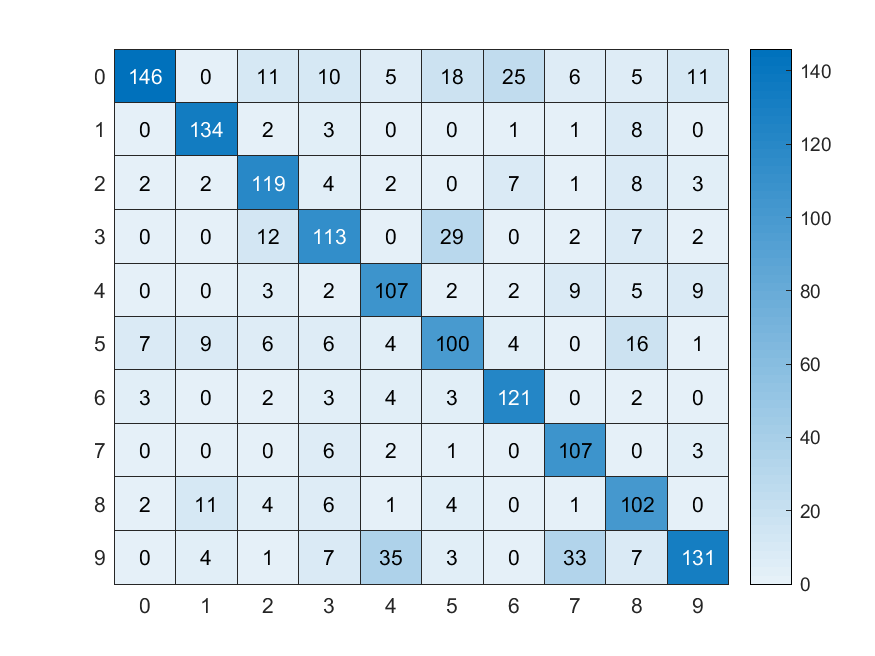
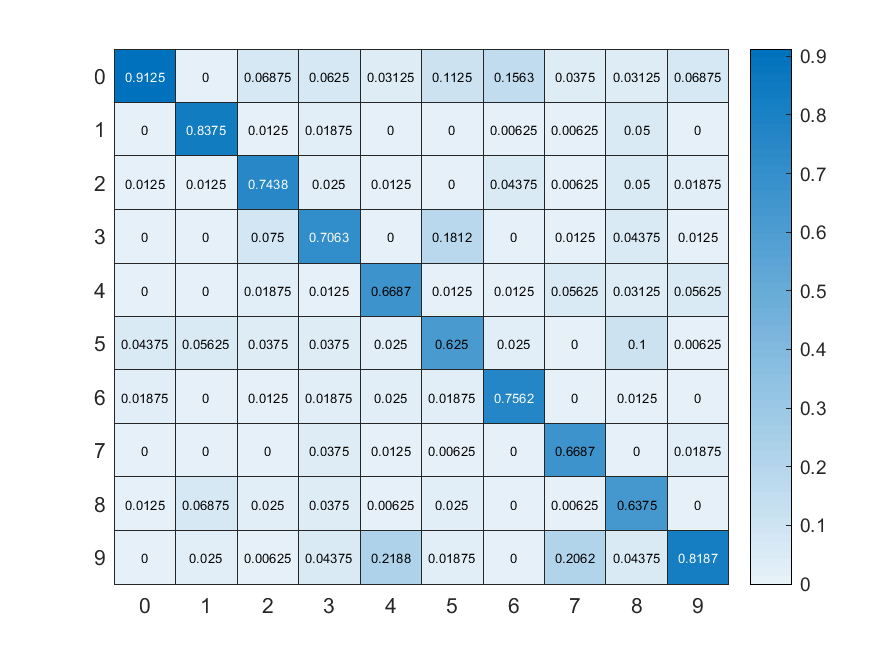
figures

diff --git a/matlab/mnist/robust.m b/matlab/mnist/robust.m
@@ -245,6 +245,7 @@ for row = 0:9
         confusion_matrix_robust(row+1, col+1) = sum(yhat_x_testing(num_adversarial_testing+1:end, col+1) == row); 
     end
 end
+confusion_matrix_robust = confusion_matrix_robust/(size_testing - num_adversarial_testing(1));
 
 figure; 
 heatmap({'0', '1', '2', '3', '4', '5', '6', '7', '8', '9'}, ...
